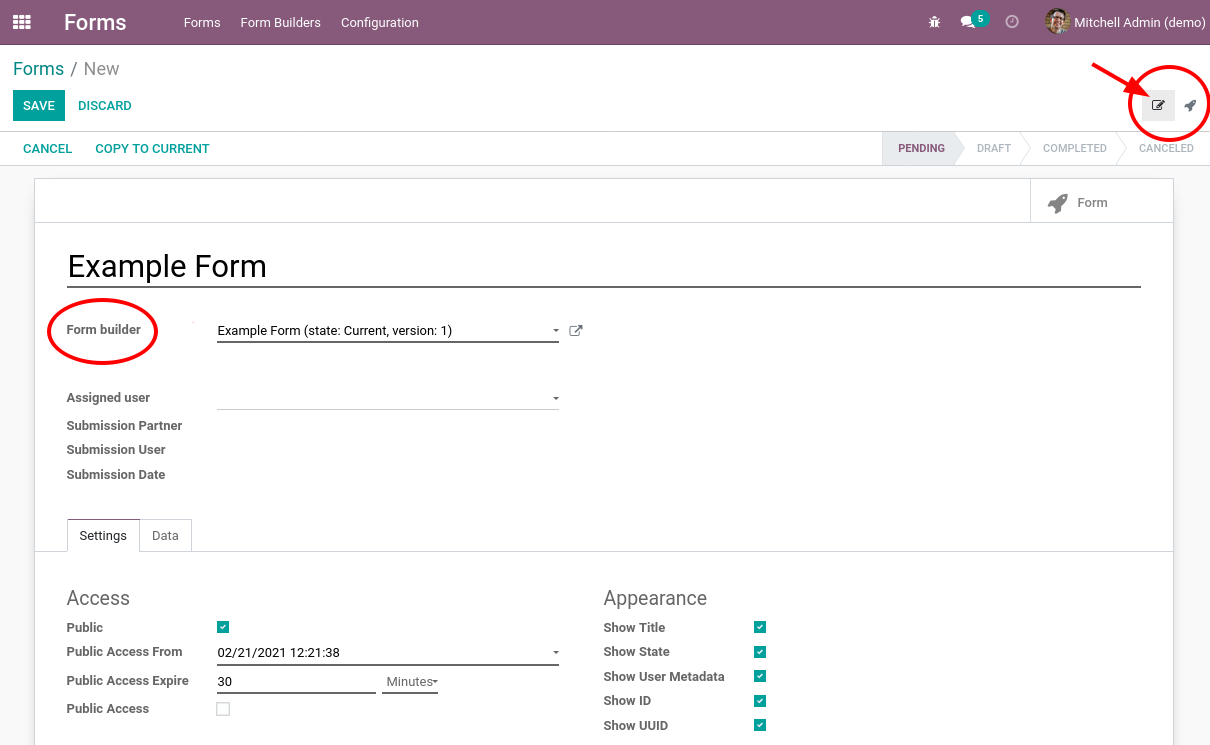
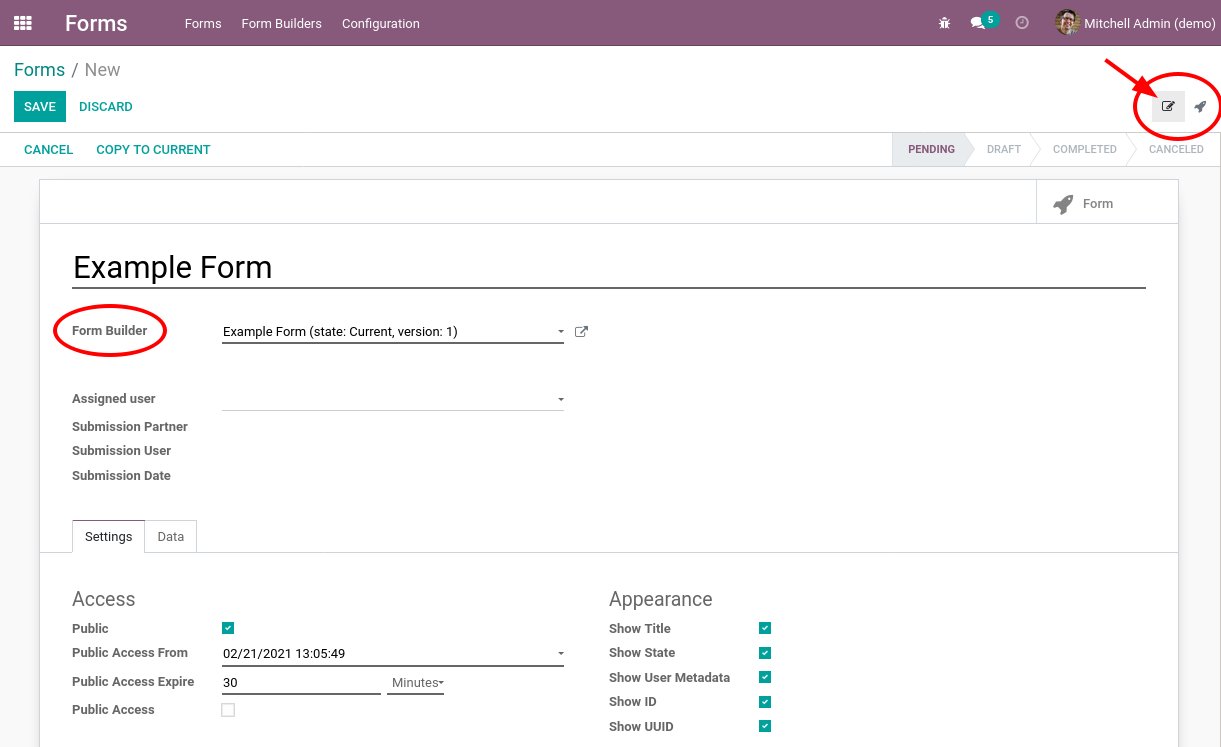
[IMP] formio: In Form (formio.form) rename label to "Form Builder".

diff --git a/formio/models/formio_form.py b/formio/models/formio_form.py
@@ -36,7 +36,7 @@ class Form(models.Model):
     }
 
     builder_id = fields.Many2one(
-        'formio.builder', string='Form builder', required=True,
+        'formio.builder', string='Form Builder', required=True,
         ondelete='restrict', domain=[('state', '=', BUILDER_STATE_CURRENT)])
     name = fields.Char(related='builder_id.name', readonly=True)
     uuid = fields.Char(
